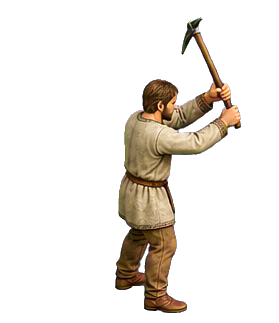
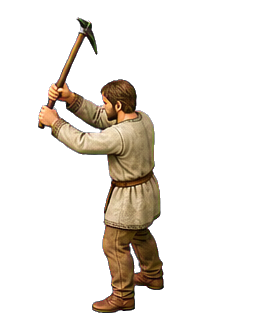
fix(art): align miners and resource nodes

Changed region(s): [[0.1147, 0.0619, 0.8602, 0.9907], [0.2581, 0.031, 0.2867, 0.0619]]

diff --git a/tools/hd-art/build.ts b/tools/hd-art/build.ts
@@ -17,6 +17,7 @@ import { genUnits } from '../assetgen/src/gen-units.ts';
 import { PALETTE } from '../assetgen/src/palette.ts';
 import { writePng } from '../assetgen/src/png.ts';
 import { Raster } from '../assetgen/src/raster.ts';
+import { alphaBounds, type AlphaBounds } from './alpha-bounds.ts';
 import { HD_DENSITY, MaterialLibrary, materializeFrame } from './materialize.ts';
 
 const ROOT = join(dirname(fileURLToPath(import.meta.url)), '../..');
@@ -51,6 +52,8 @@ interface CutoutSpec {
   scaleGroup?: string;
   /** Ignore disconnected sheet bleed when measuring and cropping this pose. */
   dominantComponent?: boolean;
+  /** Ignore generator haze below this alpha while fitting a cutout. */
+  alphaThreshold?: number;
   /** Convert authored blue cloth to the runtime team ramp, with a sash fallback. */
   teamColor?: 'blue' | 'sash';
   /** Add authored-raster motion without falling back to the legacy pixel rig. */
@@ -398,6 +401,7 @@ const CUTOUT_SPECS: readonly CutoutSpec[] = [
     fitWidth: 0.96,
     fitHeight: 0.92,
     bottom: 0.92,
+    alphaThreshold: 16,
   },
   {
     source: 'art/hd/frames/objects/stone-cutout-v2.png',
@@ -405,6 +409,7 @@ const CUTOUT_SPECS: readonly CutoutSpec[] = [
     fitWidth: 0.96,
     fitHeight: 0.92,
     bottom: 0.92,
+    alphaThreshold: 16,
   },
   ...([0, 1, 2, 3, 4] as const).map((dir): CutoutSpec => ({
     source: `art/hd/frames/units/villager-dir-${dir}-cutout-v2.png`,
@@ -907,8 +912,6 @@ function heroFrame(): { frame: FrameDef; masked: number } {
   return { frame: { name: HERO_FRAME, raster, anchor: { x: 288, y: 267 } }, masked };
 }
 
-interface AlphaBounds { left: number; top: number; right: number; bottom: number }
-
 function cellBounds(png: PNG, spec: CutoutSpec): AlphaBounds {
   if (!spec.cell) return { left: 0, top: 0, right: png.width - 1, bottom: png.height - 1 };
   const { columns, rows, column, row } = spec.cell;
@@ -923,26 +926,8 @@ function cellBounds(png: PNG, spec: CutoutSpec): AlphaBounds {
   };
 }
 
-function alphaBounds(png: PNG, region: AlphaBounds): AlphaBounds {
-  let left = region.right + 1;
-  let top = region.bottom + 1;
-  let right = -1;
-  let bottom = -1;
-  for (let y = region.top; y <= region.bottom; y++) {
-    for (let x = region.left; x <= region.right; x++) {
-      if (png.data[(y * png.width + x) * 4 + 3] < 8) continue;
-      left = Math.min(left, x);
-      top = Math.min(top, y);
-      right = Math.max(right, x);
-      bottom = Math.max(bottom, y);
-    }
-  }
-  if (right < left || bottom < top) throw new Error('generated cutout contains no visible pixels');
-  return { left, top, right, bottom };
-}
-
 /** Bounds of the main connected silhouette inside one animation-sheet cell. */
-function dominantAlphaBounds(png: PNG, region: AlphaBounds): AlphaBounds {
+function dominantAlphaBounds(png: PNG, region: AlphaBounds, threshold = 8): AlphaBounds {
   const width = region.right - region.left + 1;
   const height = region.bottom - region.top + 1;
   const seen = new Uint8Array(width * height);
@@ -953,7 +938,7 @@ function dominantAlphaBounds(png: PNG, region: AlphaBounds): AlphaBounds {
     if (seen[start]) continue;
     const startX = start % width;
     const startY = Math.floor(start / width);
-    if (png.data[((region.top + startY) * png.width + region.left + startX) * 4 + 3] < 8) {
+    if (png.data[((region.top + startY) * png.width + region.left + startX) * 4 + 3] < threshold) {
       seen[start] = 1;
       continue;
     }
@@ -981,7 +966,7 @@ function dominantAlphaBounds(png: PNG, region: AlphaBounds): AlphaBounds {
           if (nx < 0 || ny < 0 || nx >= width || ny >= height) continue;
           const next = ny * width + nx;
           if (seen[next]) continue;
-          if (png.data[((region.top + ny) * png.width + region.left + nx) * 4 + 3] < 8) continue;
+          if (png.data[((region.top + ny) * png.width + region.left + nx) * 4 + 3] < threshold) continue;
           seen[next] = 1;
           queue.push(next);
         }
@@ -1178,8 +1163,8 @@ function cutoutMetrics(spec: CutoutSpec, name: string, base: FrameDef): CutoutMe
   }
   const region = cellBounds(png, spec);
   const bounds = spec.dominantComponent
-    ? dominantAlphaBounds(png, region)
-    : alphaBounds(png, region);
+    ? dominantAlphaBounds(png, region, spec.alphaThreshold)
+    : alphaBounds(png, region, spec.alphaThreshold);
   const sourceWidth = bounds.right - bounds.left + 1;
   const sourceHeight = bounds.bottom - bounds.top + 1;
   const authoredVillager = name.startsWith('unit/villager/');

diff --git a/tools/hd-art/hd-art.test.ts b/tools/hd-art/hd-art.test.ts
@@ -67,7 +67,9 @@ function frameMaskPixelCount(name: string): number {
   return count;
 }
 
-function frameVisibleBounds(name: string): { width: number; height: number; bottom: number } {
+function frameVisibleBounds(name: string): {
+  left: number; top: number; right: number; width: number; height: number; bottom: number;
+} {
   const match = hdAtlases().find(({ atlas }) => atlas.frames[name]);
   if (!match) throw new Error(`missing HD frame ${name}`);
   const frame = match.atlas.frames[name].frame;
@@ -91,7 +93,7 @@ function frameVisibleBounds(name: string): { width: number; height: number; bott
     }
   }
   if (right < left || bottom < top) throw new Error(`empty HD frame ${name}`);
-  return { width: right - left + 1, height: bottom - top + 1, bottom };
+  return { left, top, right, width: right - left + 1, height: bottom - top + 1, bottom };
 }
 
 describe('complete HD art override contract', () => {
@@ -174,6 +176,17 @@ describe('complete HD art override contract', () => {
     expect(frames['obj/farm/3'].anchor).toEqual({ x: 0.5, y: 0.399 });
     expect(frames['obj/tree/0'].anchor).toEqual({ x: 0.5, y: 0.9688 });
     expect(frames['obj/berries'].anchor).toEqual({ x: 0.5, y: 0.9063 });
+  });
+
+  it('centers gold and stone piles on their logical resource origin', () => {
+    const frames = Object.assign({}, ...hdAtlases().map(({ atlas }) => atlas.frames));
+    for (const name of ['obj/gold/0', 'obj/gold/1', 'obj/stone/0', 'obj/stone/1']) {
+      const visible = frameVisibleBounds(name);
+      const frame = frames[name];
+      const visibleCenter = (visible.left + visible.right) / 2;
+      expect(Math.abs(visibleCenter - frame.frame.w / 2), `${name} horizontal center`)
+        .toBeLessThanOrEqual(1);
+    }
   });
 
   it('uses the approved final canvas and anchor for every construction stage', () => {

diff --git a/tools/hd-art/slice-work-sheets.ts b/tools/hd-art/slice-work-sheets.ts
@@ -1,16 +1,16 @@
 // Split 5-direction × 4-phase generated villager work sheets into one
-// transparent source per runtime atlas frame. The generated columns are
-// S,SE,E,NE,N, while the runtime contract authors S,SW,W,NW,N. Columns 1..3
-// are therefore mirrored as they are extracted. A small inset removes
+// transparent source per runtime atlas frame. Most generated columns are
+// S,SE,E,NE,N and need mirroring for the runtime S,SW,W,NW,N contract. The
+// mining sheet is already authored in runtime order. A small inset removes
 // generator-added grid gutters.
 
 import { readFileSync, writeFileSync } from 'node:fs';
 import { join } from 'node:path';
 import { PNG } from 'pngjs';
+import { shouldMirrorWorkDirection, WORK_ANIMS } from './work-sheet-layout.ts';
 
 const root = join(import.meta.dirname, '../..');
 const unitDir = join(root, 'art/hd/frames/units');
-const WORK_ANIMS = ['chop', 'farm', 'forage', 'mine', 'build'] as const;
 const COLS = 5;
 const ROWS = 4;
 const X_INSET = 14;
@@ -40,7 +40,7 @@ for (const anim of WORK_ANIMS) {
       const top = rawTop;
       const bottom = rawBottom;
       const out = new PNG({ width: right - left, height: bottom - top });
-      const mirrorForRuntime = dir > 0 && dir < 4;
+      const mirrorForRuntime = shouldMirrorWorkDirection(anim, dir);
       for (let y = top; y < bottom; y++) {
         for (let x = left; x < right; x++) {
           const sourceX = mirrorForRuntime ? right - 1 - (x - left) : x;

diff --git a/tools/hd-art/alpha-bounds.ts b/tools/hd-art/alpha-bounds.ts
@@ -1,0 +1,29 @@
+export interface AlphaBounds { left: number; top: number; right: number; bottom: number }
+
+interface AlphaRaster {
+  width: number;
+  data: Uint8Array | Buffer;
+}
+
+/** Measure a cutout while ignoring generator haze below the authored threshold. */
+export function alphaBounds(
+  png: AlphaRaster,
+  region: AlphaBounds,
+  threshold = 8,
+): AlphaBounds {
+  let left = region.right + 1;
+  let top = region.bottom + 1;
+  let right = -1;
+  let bottom = -1;
+  for (let y = region.top; y <= region.bottom; y++) {
+    for (let x = region.left; x <= region.right; x++) {
+      if (png.data[(y * png.width + x) * 4 + 3] < threshold) continue;
+      left = Math.min(left, x);
+      top = Math.min(top, y);
+      right = Math.max(right, x);
+      bottom = Math.max(bottom, y);
+    }
+  }
+  if (right < left || bottom < top) throw new Error('generated cutout contains no visible pixels');
+  return { left, top, right, bottom };
+}

diff --git a/tools/hd-art/alpha-bounds.test.ts b/tools/hd-art/alpha-bounds.test.ts
@@ -1,0 +1,17 @@
+import { describe, expect, it } from 'vitest';
+import { PNG } from 'pngjs';
+import { alphaBounds } from './alpha-bounds';
+
+describe('alphaBounds', () => {
+  it('ignores low-alpha corner noise when a stricter authored threshold is used', () => {
+    const png = new PNG({ width: 6, height: 5 });
+    png.data[(0 * png.width + 0) * 4 + 3] = 8;
+    for (let y = 1; y <= 3; y++) {
+      for (let x = 2; x <= 4; x++) png.data[(y * png.width + x) * 4 + 3] = 255;
+    }
+    const region = { left: 0, top: 0, right: 5, bottom: 4 };
+
+    expect(alphaBounds(png, region, 8)).toEqual({ left: 0, top: 0, right: 4, bottom: 3 });
+    expect(alphaBounds(png, region, 16)).toEqual({ left: 2, top: 1, right: 4, bottom: 3 });
+  });
+});

diff --git a/tools/hd-art/work-sheet-layout.test.ts b/tools/hd-art/work-sheet-layout.test.ts
@@ -1,0 +1,17 @@
+import { describe, expect, it } from 'vitest';
+import { shouldMirrorWorkDirection, WORK_ANIMS } from './work-sheet-layout';
+
+describe('work-sheet direction extraction', () => {
+  it('keeps every authored mining direction unchanged', () => {
+    for (let direction = 0; direction < 5; direction++) {
+      expect(shouldMirrorWorkDirection('mine', direction)).toBe(false);
+    }
+  });
+
+  it('still mirrors the eastward middle columns in the other work sheets', () => {
+    for (const animation of WORK_ANIMS.filter((name) => name !== 'mine')) {
+      expect([0, 1, 2, 3, 4].map((direction) => shouldMirrorWorkDirection(animation, direction)))
+        .toEqual([false, true, true, true, false]);
+    }
+  });
+});

diff --git a/tools/hd-art/work-sheet-layout.ts b/tools/hd-art/work-sheet-layout.ts
@@ -1,0 +1,11 @@
+export const WORK_ANIMS = ['chop', 'farm', 'forage', 'mine', 'build'] as const;
+export type WorkAnimation = (typeof WORK_ANIMS)[number];
+
+/**
+ * Most generated work sheets use S,SE,E,NE,N and need their middle columns
+ * mirrored into the runtime S,SW,W,NW,N contract. The approved mining sheet
+ * is already authored in runtime order and must be copied unchanged.
+ */
+export function shouldMirrorWorkDirection(anim: WorkAnimation, direction: number): boolean {
+  return anim !== 'mine' && direction > 0 && direction < 4;
+}
